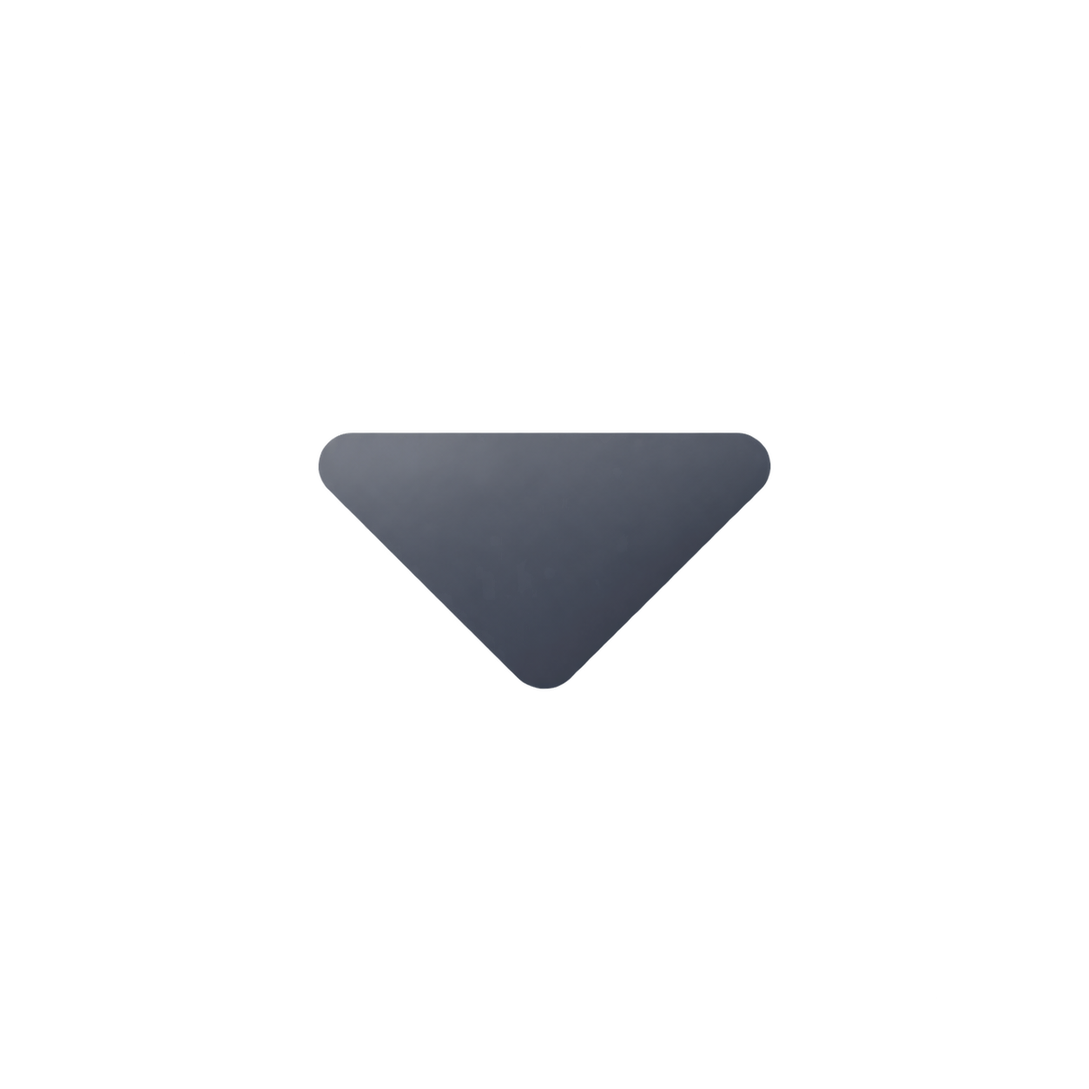
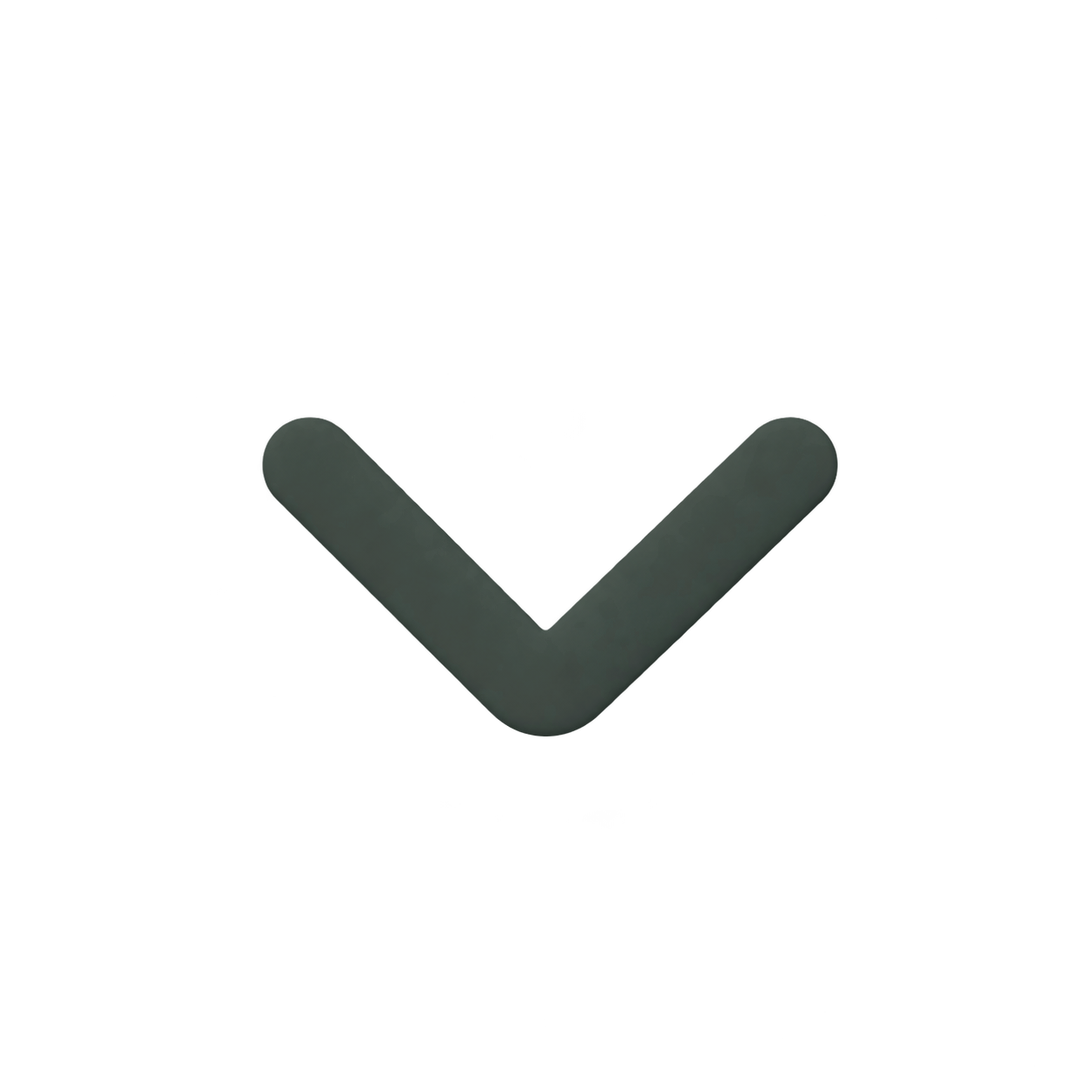
アイコンの変更

Changed region(s): [[0.2177, 0.3732, 0.7775, 0.6842]]

diff --git a/app/page.tsx b/app/page.tsx
@@ -15,7 +15,7 @@ import { ReviewCelebration } from "./study-effects";
 import { MaterialManager } from "./material-manager";
 import { SettingsDialog } from "./settings-dialog";
 import { StudyCardEditor } from "./study-card-editor";
-import { AssetIcon, IconLabel } from "./asset-icon";
+import { AssetIcon, IconLabel, type AssetName } from "./asset-icon";
 import type {
   AppData,
   Card,
@@ -208,18 +208,18 @@ function Home({ data, now, startStudy, setScreen, selectSet, resumeDraft, resuma
       </section> : null}
       <DailyReviewRail data={data} now={now} onStudy={startStudy} />
       {resumableSessions.length > 0 && <section className="home-resume-list" aria-label={t("今日の学習")}>
-        {resumableSessions.map((session) => <button key={session.id} className="resume-study" onClick={() => onResume(session)}><span><strong>{t("続きから学習 · 残り{0}枚", pendingStudyCount(session))}</strong><small>{data.sets.find((set) => set.id === session.setId)?.title || t("復習")}</small></span><b aria-hidden="true">➡</b></button>)}
+        {resumableSessions.map((session) => <button key={session.id} className="resume-study" onClick={() => onResume(session)}><span><strong>{t("続きから学習 · 残り{0}枚", pendingStudyCount(session))}</strong><small>{data.sets.find((set) => set.id === session.setId)?.title || t("復習")}</small></span><AssetIcon name="chevron-right" size={18} /></button>)}
       </section>}
 
       <section className="long-term-review">
         <div className="section-row"><h2>{t("久しぶりに思い出す")}</h2></div>
         {memorySets.length ? <div className="recommend-card-grid">{memorySets.map(({ set, cards }, index) => <button key={set.id} className={`recommend-card ${["blue-set", "green-set", "violet-set"][index % 3]}`} onClick={() => startStudy(`__memory__:${set.id}`)}>
-          <strong>{set.title}</strong><span className="recommend-number">{t("{0}枚", cards.length)}</span><small>{t("間隔をあけて、長期記憶を確認しましょう。")}</small><span className="recommend-link">{t("復習を始める")} <b aria-hidden="true">➡</b></span>
+          <strong>{set.title}</strong><span className="recommend-number">{t("{0}枚", cards.length)}</span><small>{t("間隔をあけて、長期記憶を確認しましょう。")}</small><span className="recommend-link">{t("復習を始める")} <AssetIcon name="chevron-right" size={18} /></span>
         </button>)}</div> : <div className="memory-empty"><img src="/review-empty.png" width={1454} height={1080} alt="" /><div><strong>{t("今は復習待ちのカードはありません")}</strong><p>{t("次の復習まで少し休憩しましょう。")}</p></div></div>}
       </section>
 
-      {resumeDraft && <button className="resume-draft" onClick={resumeDraft}>{t("下書きの続きから")}<span>➡</span></button>}
-      {data.sets.length > 0 && <button className="floating-add" onClick={() => setScreen("import")}><IconLabel name="plus" size={22}>{t("新しい教材を追加")}</IconLabel></button>}
+      {resumeDraft && <button className="resume-draft" onClick={resumeDraft}>{t("下書きの続きから")}<AssetIcon name="chevron-right" size={18} /></button>}
+      {data.sets.length > 0 && <button className="floating-add" onClick={() => setScreen("import")}><IconLabel name="plus-dark" size={22}>{t("新しい教材を追加")}</IconLabel></button>}
     </div>
   );
 }
@@ -424,7 +424,7 @@ function SetDetail({ data, selectedSetId, selectSet, startStudy, now, onData, fo
       <section>
         <div className="section-row"><h2>{t("カード一覧")}</h2><span className="muted">{activeCards.length}{t("枚")}</span></div>
         <div className="topic-list">
-          {activeCards.map((card, index) => <button id={`set-card-${card.id}`} key={card.id} onClick={() => startStudy(set.id, card.id)}><span>{index + 1}</span><div><strong>{card.question}</strong><small>{card.answer}</small></div><i>{t(card.status)}</i><em>{relativeDate(card.dueAt, now, language)}　➡</em></button>)}
+          {activeCards.map((card, index) => <button id={`set-card-${card.id}`} key={card.id} onClick={() => startStudy(set.id, card.id)}><span>{index + 1}</span><div><strong>{card.question}</strong><small>{card.answer}</small></div><i>{t(card.status)}</i><em>{relativeDate(card.dueAt, now, language)} <AssetIcon name="chevron-right" size={16} /></em></button>)}
         </div>
       </section>
 
@@ -776,7 +776,7 @@ function Study({ session, updateSession, data, queue, flipped, setFlipped, setQu
     <div className="page study-page">
       {dailyCelebration && <ReviewCelebration onDismiss={() => setDailyCelebration(false)} />}
       <div className="study-header"><button className="secondary pause-study" disabled={busy || aiBusy} onClick={onPause}>{t("中断する")}</button><h1>{set.title}</h1><span /></div>
-      <div className="study-progress" role="progressbar" aria-valuemin={0} aria-valuemax={progressTotal} aria-valuenow={completed}><span style={{ width: `${progress}%` }} /><b>{t("残り")}{queue.length}{t("枚")}</b></div>
+      <div className="study-progress"><div className="study-progress-track" role="progressbar" aria-label={t("今日の学習")} aria-valuemin={0} aria-valuemax={progressTotal} aria-valuenow={completed} aria-valuetext={`${t("残り")}${queue.length}${t("枚")}`}><span className="study-progress-fill" style={{ width: `${progress}%` }} /></div><b className="study-progress-remaining">{t("残り")}{queue.length}{t("枚")}</b></div>
       <div className="study-tools">{undoButton}<button type="button" className="edit-study-button" disabled={busy || aiBusy} onClick={() => updateSession((current) => ({ ...current, editDraft: { cardId: card.id, question: card.question, answer: card.answer, choices: [...card.choices] } }))}>{t("このカードを修正")}</button></div>
       <article
         key={`flashcard:${card.id}`}
@@ -828,12 +828,12 @@ function Study({ session, updateSession, data, queue, flipped, setFlipped, setQu
         <button className="primary wide record-choice" disabled={busy || aiBusy} onClick={() => submitVerdict(selectedChoice === card.answer ? "correct" : "incorrect")}>{selectedChoice === card.answer ? <IconLabel name="check">{t("選択結果を記録して次へ")}</IconLabel> : <IconLabel name="refresh">{t("選択結果を記録して後でもう一度")}</IconLabel>}</button>
       ) : (
         <div className="swipe-actions compact" aria-label={t("スワイプ操作の代替ボタン")}>
-          <button className="incorrect" disabled={!flipped || busy || aiBusy} onClick={() => submitVerdict("incorrect")}><b>⬅</b><span><strong>{t("まだ覚えていない")}</strong></span></button>
-          <button className="correct" disabled={!flipped || busy || aiBusy} onClick={() => submitVerdict("correct")}><span><strong>{t("覚えていた")}</strong></span><b>➡</b></button>
+          <button className="incorrect" disabled={!flipped || busy || aiBusy} onClick={() => submitVerdict("incorrect")}><AssetIcon name="chevron-left" size={20} /><span><strong>{t("まだ覚えていない")}</strong></span></button>
+          <button className="correct" disabled={!flipped || busy || aiBusy} onClick={() => submitVerdict("correct")}><span><strong>{t("覚えていた")}</strong></span><AssetIcon name="chevron-right" size={20} /></button>
         </div>
       )}
 
-      {flipped && <details key={`source:${card.id}`} className="source-details"><summary>{t("元の文章を確認")}</summary><p>{set.sourceContent}</p></details>}
+      {flipped && <details key={`source:${card.id}`} className="source-details"><summary><IconLabel name="document">{t("元の文章を確認")}</IconLabel></summary><p>{set.sourceContent}</p></details>}
       {error && <p className="inline-error" role="alert">{t(error)}</p>}
     </div>
   );
@@ -875,17 +875,17 @@ function Records({ data, now, startStudy }: { data: AppData; now: Date; startStu
         <div className="bar-chart">{dayData.map((day) => <div key={dayKey(day.date)}><span style={{ height: `${day.count === 0 ? 2 : Math.max(4, day.count / maxDailyReviews * 90)}px` }}><i>{day.count}{language === "ja" && t("枚")}</i></span><b>{new Intl.DateTimeFormat(locale, { timeZone: "Asia/Tokyo", weekday: "short" }).format(day.date)}</b></div>)}</div>
       </section>
       <div className="record-stats">
-        {[["streak", "連続学習", t("{0}日", streak)], ["cards", "直近7日間の学習", t("{0}枚", weekReviews)], ["recall", "長期記憶したカード数", t("{0}枚", milestones.longTerm)], ["cards", "もう少しで長期記憶に到達するカード数", t("{0}枚", milestones.nearLongTerm)], ["accuracy", "学習し切ったセット数", t("{0}セット", milestones.completedSets)]].map(([icon, label, value], index) => (
+        {[["streak", "連続学習", t("{0}日", streak)], ["weekly-study", "直近7日間の学習", t("{0}枚", weekReviews)], ["long-term", "長期記憶したカード数", t("{0}枚", milestones.longTerm)], ["memory-clock", "もう少しで長期記憶に到達するカード数", t("{0}枚", milestones.nearLongTerm)], ["completed-sets", "学習し切ったセット数", t("{0}セット", milestones.completedSets)]].map(([icon, label, value], index) => (
           <article key={label} className={index < 2 ? "record-stat-summary" : "record-stat-memory"}>
-            <span className="record-stat-icon" aria-hidden="true"><img src={`/record-icons/${icon}.png`} width={1254} height={1254} alt="" loading="lazy" /></span>
+            <span className="record-stat-icon" aria-hidden="true"><AssetIcon name={icon as AssetName} size={index < 2 ? 28 : 34} /></span>
             <small>{t(label)}</small>
             <strong>{value}</strong>
           </article>
         ))}
       </div>
-      <section><div className="section-row"><h2>{t("復習リマインド")}</h2></div><div className="reminder-list">{data.sets.slice(0, 5).map((set) => { const due = set.cards.filter((card) => isDue(card, now)).length; return <button key={set.id} onClick={() => startStudy(set.id)}><AssetIcon name="clock" size={26} /><div><strong>{due ? t("{0}枚のカードが復習待ち", due) : t("{0}の次回復習", set.title)}</strong><small>{set.title}</small></div><em>{relativeDate(set.nextReviewAt, now, language)}　➡</em></button>; })}</div></section>
+      <section><div className="section-row"><h2>{t("復習リマインド")}</h2></div><div className="reminder-list">{data.sets.slice(0, 5).map((set) => { const due = set.cards.filter((card) => isDue(card, now)).length; return <button key={set.id} onClick={() => startStudy(set.id)}><AssetIcon name="clock" size={26} /><div><strong>{due ? t("{0}枚のカードが復習待ち", due) : t("{0}の次回復習", set.title)}</strong><small>{set.title}</small></div><em>{relativeDate(set.nextReviewAt, now, language)} <AssetIcon name="chevron-right" size={16} /></em></button>; })}</div></section>
       <details className="ai-history-disclosure"><summary>{t("AI解説の学習履歴")}</summary><div className="ai-history-list">{aiHistory.length ? aiHistory.map(({ message, question, card: historyCard, setTitle }) => <details key={message.id}><summary><span><span><AssetIcon name="sparkles" /></span><small>{setTitle}{t("・")}{relativeDate(message.createdAt, now, language)}</small></span><strong>{historyCard?.question || question}</strong></summary><p className="history-question">{t("あなた：")}{question}</p><p>{message.content}</p></details>) : <p className="list-empty">{t("学習中にAIへ質問すると、解説がここへ保存されます。")}</p>}</div></details>
-      <section><div className="section-row"><h2>{t("苦手カード")}</h2><span className="muted">{weak.length}{t("枚")}</span></div><div className="weak-list">{weak.length ? weak.slice(0, 8).map(({ card, set }) => <button key={card.id} onClick={() => startStudy(set.id, card.id)}><i>{set.category}</i><strong>{card.question}</strong><span>{t("復習")}{card.reviewCount}{t("回　➡")}</span></button>) : <p className="list-empty">{t("苦手カードはまだありません。")}</p>}</div></section>
+      <section><div className="section-row"><h2>{t("苦手カード")}</h2><span className="muted">{weak.length}{t("枚")}</span></div><div className="weak-list">{weak.length ? weak.slice(0, 8).map(({ card, set }) => <button key={card.id} onClick={() => startStudy(set.id, card.id)}><i>{set.category}</i><strong>{card.question}</strong><span>{t("復習")}{card.reviewCount}{t("回")} <AssetIcon name="chevron-right" size={16} /></span></button>) : <p className="list-empty">{t("苦手カードはまだありません。")}</p>}</div></section>
     </div>
   );
 }

diff --git a/app/globals.css b/app/globals.css
@@ -100,7 +100,11 @@ h2 { font-size: 18px; }
 .memory-grid { display: grid; grid-template-columns: repeat(4,1fr); gap: 10px; }.memory-grid > div { border: 1px solid var(--line); border-radius: 14px; padding: 14px; display: grid; gap: 8px; }.memory-grid strong { font-size: 29px; }.memory-grid strong i { font-size: 12px; font-style: normal; }.blue-dot { color: var(--blue); }.green-dot { color: var(--cyan); }.orange-dot { color: #f19523; }.gray-dot { color: #adbb9c; }.memory-tip { background: #f9fcf5; padding: 16px; border-radius: 13px; color: var(--blue); margin: 18px 0 0; }.memory-tip span { color: var(--muted); margin-left: 24px; }
 .topic-list { border: 1px solid var(--line); border-radius: 18px; overflow: hidden; background: #fff; }.topic-list button { width: 100%; min-height: 82px; display: grid; grid-template-columns: auto 1fr auto auto; align-items: center; gap: 16px; border: 0; border-bottom: 1px solid var(--line); background: #fff; text-align: left; padding: 12px 18px; }.topic-list button:last-child { border-bottom: 0; }.topic-list button > span { width: 42px; height: 42px; display: grid; place-content: center; border-radius: 50%; background: #f7fbf2; color: var(--blue); font-size: 20px; }.topic-list small { display: block; color: var(--muted); margin-top: 4px; }.topic-list i { font-style: normal; border-radius: 999px; padding: 5px 9px; background: #f4f9ee; color: #6e983e; }.topic-list em { font-style: normal; color: var(--muted); }
 .study-header { display: grid; grid-template-columns: 1fr auto 1fr; align-items: center; margin-bottom: 20px; }.study-header h1 { font-size: 20px; margin: 0; }.study-header button { border: 0; background: transparent; font-size: 25px; }.study-header button:last-child { justify-self: end; }
-.study-progress { display: grid; grid-template-columns: 1fr auto; align-items: center; gap: 20px; height: 26px; background: linear-gradient(#eff5e8,#eff5e8) left center/100% 8px no-repeat; }.study-progress span { height: 8px; border-radius: 999px; background: linear-gradient(90deg,var(--blue),var(--cyan)); }.study-progress b { grid-column: 2; grid-row: 1; }
+.study-progress { display: grid; grid-template-columns: minmax(0,1fr) auto; align-items: center; gap: 14px; min-height: 28px; }
+.study-progress-track { height: 10px; overflow: hidden; border-radius: 999px; background: #e8f0e5; box-shadow: inset 0 1px 2px #244f3510; }
+.study-progress-fill { display: block; height: 100%; border-radius: inherit; background: linear-gradient(90deg,#b3e968,#68cba1); transition: width 360ms cubic-bezier(.22,1,.36,1); }
+.study-progress-remaining { white-space: nowrap; font-size: 14px; line-height: 1.5; font-weight: 700; color: var(--leaf); font-variant-numeric: tabular-nums; }
+@media (prefers-reduced-motion: reduce) { .study-progress-fill { transition: none; } }
 .flashcard { position: relative; width: 100%; min-height: 390px; margin: 30px 0 20px; border: 1px solid #e7f1dc; border-radius: 24px; background: linear-gradient(145deg,#fff,#f8fbf4); box-shadow: 0 18px 35px rgba(67, 92, 42,.13); display: flex; flex-direction: column; align-items: stretch; padding: 0; transition: transform .18s ease,background .25s,border-color .18s,box-shadow .18s; touch-action: pan-y; user-select: none; will-change: transform; overflow: hidden; }.flashcard.flipped { background: linear-gradient(145deg,#fdfefb,#f4f9ee); }.flashcard.swiping-right,.flashcard.swiping-left { transition: background .25s,border-color .18s,box-shadow .18s; }.flashcard.swiping-right { border-color: #aad579; box-shadow: 0 18px 36px rgba(67, 92, 42,.2); }.flashcard.swiping-left { border-color: #ff9d9d; box-shadow: 0 18px 36px rgba(239,87,87,.18); }.flashcard-tap { flex: 1; width: 100%; min-height: 350px; border: 0; background: transparent; color: inherit; padding: 28px; display: flex; flex-direction: column; align-items: flex-start; justify-content: space-between; }.flashcard-tap strong { font-size: clamp(24px,4vw,34px); align-self: center; text-align: center; line-height: 1.5; }.flashcard-tap small { align-self: center; color: var(--muted); font-weight: 700; }.flashcard:has(.study-choice-grid) .flashcard-tap { min-height: 235px; }.study-choice-grid { display: grid; grid-template-columns: 1fr 1fr; gap: 10px; padding: 0 22px 22px; }.study-choice-grid button { min-height: 54px; border: 1px solid #e0efce; border-radius: 14px; background: rgba(255,255,255,.9); padding: 10px 14px; text-align: left; font-weight: 700; }.study-choice-grid button:hover { border-color: var(--blue); color: var(--blue); }.choice-feedback { margin: 0 22px 8px; padding: 9px 12px; border-radius: 10px; text-align: center; font-size: 12px; font-weight: 800; }.choice-feedback.is-correct { color: #53722f; background: #f1f8ea; }.choice-feedback.is-incorrect { color: #b34b4b; background: #fff1f1; }.card-ai-button { min-height: 50px; margin: 0 22px 22px; border: 1px solid #ddeec9; border-radius: 14px; background: rgba(255,255,255,.92); color: var(--blue); font-weight: 800; }
 .gesture-message { min-height: 22px; margin: 0 0 12px; text-align: center; color: var(--muted); font-size: 13px; }
 .swipe-actions { display: grid; grid-template-columns: 1fr 1fr; gap: 12px; }.swipe-actions button { min-height: 76px; border: 1px solid var(--line); border-radius: 18px; background: #fff; display: flex; align-items: center; justify-content: center; gap: 18px; box-shadow: 0 7px 20px rgba(67, 92, 42,.06); }.swipe-actions button > b { font-size: 27px; }.swipe-actions button > span { display: grid; text-align: left; }.swipe-actions button strong { font-size: 17px; }.swipe-actions button small { color: var(--muted); margin-top: 2px; }.swipe-actions .incorrect { color: #c53e3e; }.swipe-actions .incorrect small { color: #805757; }.swipe-actions .correct { color: #496529; }.swipe-actions .correct small { color: #5a6f42; }.record-choice { margin-top: 0; }
@@ -282,8 +286,7 @@ body { background: radial-gradient(ellipse at 12% 0, #efffdc 0, transparent 48%)
 .success-banner { background: linear-gradient(110deg,#e6faf1,#f7fde9); border-color: #ccebdd; }
 .success-banner > span,.edit-card-list .number { background: var(--mint); color: var(--ink); }
 .chat-input button { background: var(--lime); color: var(--ink); }
-.study-progress span,.bar-chart span { background: linear-gradient(180deg,#b4ee64,#69d3ab); }
-.study-progress { background-image: linear-gradient(#eaf2ed,#eaf2ed); }
+.bar-chart span { background: linear-gradient(180deg,#b4ee64,#69d3ab); }
 .bottom-nav .active { color: #25633e; background: #f2fbdc; }
 .bottom-nav .active .nav-icon { color: #337743; }
 .bottom-nav .nav-image { display: block; width: 38px; height: 38px; flex-shrink: 0; overflow: hidden; mix-blend-mode: multiply; }
@@ -633,7 +636,7 @@ button:not(.flashcard-tap):not(:disabled):active { scale: .96; translate: 0 2px;
 
 /* Icons are existing image assets or platform emoji, never drawn in SVG/CSS. */
 .asset-icon { display: inline-flex; align-items: center; justify-content: center; width: var(--asset-icon-size); height: var(--asset-icon-size); min-width: var(--asset-icon-size); flex: 0 0 var(--asset-icon-size); padding: 0; overflow: hidden; vertical-align: middle; line-height: 1; mix-blend-mode: multiply; }
-.asset-icon > img { display: block; width: 100%; height: 100%; object-fit: contain; transform: scale(var(--asset-icon-scale)); }
+.asset-icon > img { display: block; width: 100%; height: 100%; object-fit: contain; transform: scale(var(--asset-icon-scale)) translate(var(--asset-icon-x,0%),var(--asset-icon-y,0%)); }
 .asset-icon-ui { mix-blend-mode: normal; }
 .icon-label { display: inline-flex; align-items: center; justify-content: center; gap: 6px; max-width: 100%; vertical-align: middle; }
 .icon-label > span:last-child { min-width: 0; }
@@ -728,7 +731,8 @@ html[lang="en"] .bottom-nav button { font-size: 11px; }
 .record-stats .record-stat-memory { grid-column: 1 / -1; }
 .record-stats .record-stat-memory:nth-child(4) { background: #f7fbed; }
 .record-stats .record-stat-memory:nth-child(5) { background: #f5f3fc; border-color: #e6e0f2; }
-.record-stats .record-stat-icon { width: 34px; height: 34px; overflow: hidden; mix-blend-mode: multiply; }
+.record-stats .record-stat-icon { width: 34px; height: 34px; overflow: hidden; mix-blend-mode: normal; }
+.record-stat-icon .asset-icon > img { transform: scale(var(--asset-icon-scale)) translate(var(--asset-icon-x,0%),var(--asset-icon-y,0%)); }
 .record-stats small { font-size: 13px; line-height: 1.5; font-weight: 600; overflow-wrap: anywhere; }
 .record-stats strong { font-size: 22px; text-align: right; white-space: nowrap; }
 .record-stat-summary .record-stat-icon { grid-row: 1 / 3; width: 28px; height: 28px; }

diff --git a/app/set-library.tsx b/app/set-library.tsx
@@ -1,7 +1,7 @@
 "use client";
 
 import { useLanguage } from "./language";
-import { IconLabel } from "./asset-icon";
+import { AssetIcon, IconLabel } from "./asset-icon";
 
 import { useRef, useState, type ReactNode } from "react";
 import type { AppData, Folder } from "../lib/types";
@@ -73,8 +73,8 @@ export function SetLibrary({ data, folderId, openSetId, onFolder, onSet, onData,
         {results.cards.length > 0 && <><h2>{t("カード")}</h2><div className="search-hit-list">{results.cards.slice(0, searchLimit).map(({ card, set }) => <button key={card.id} type="button" onClick={() => openSearchResult(set.id, card.id)}><small>{set.title}</small><strong>{card.question}</strong><span>{card.answer}</span></button>)}</div></>}
         {!results.sets.length && !results.cards.length && <p className="muted">{t("一致する教材・カードがありません。")}</p>}
         {Math.max(results.sets.length, results.cards.length) > searchLimit && <button className="secondary wide" onClick={() => setSearchLimit((limit) => limit + 50)}>{t("さらに表示")}</button>}
-      </section> : currentSet ? <div className="folder-toolbar"><button className="secondary" onClick={() => navigate(currentFolderId)}>{t("⬅ フォルダへ戻る")}</button><button className="secondary" onClick={() => { setMovingSet(currentSet.id); setDestination(currentSet.folderId || ""); }}>{t("別のフォルダへ移動")}</button></div> : <>
-        <div className="library-heading">{folder && <h1>{folder.name}</h1>}<button className="primary" onClick={onAdd}><IconLabel name="plus">{t("カードセットを追加")}</IconLabel></button></div>
+      </section> : currentSet ? <div className="folder-toolbar"><button className="secondary" onClick={() => navigate(currentFolderId)}><IconLabel name="chevron-left" size={18}>{t("フォルダへ戻る")}</IconLabel></button><button className="secondary" onClick={() => { setMovingSet(currentSet.id); setDestination(currentSet.folderId || ""); }}>{t("別のフォルダへ移動")}</button></div> : <>
+        <div className="library-heading">{folder && <h1>{folder.name}</h1>}<button className="primary" onClick={onAdd}><IconLabel name="plus-dark">{t("カードセットを追加")}</IconLabel></button></div>
         <div className="folder-controls">
           <button ref={folderButtonRef} type="button" className="secondary" disabled={busy} aria-expanded={folderFormOpen && !renaming} aria-controls="folder-create-form" onClick={() => { setFolderFormOpen(!folderFormOpen || renaming); setRenaming(false); setName(""); }}><IconLabel name="plus">{t("フォルダ")}</IconLabel></button>
           {folder && <button type="button" className="folder-text-button" disabled={busy} aria-expanded={folderFormOpen && renaming} aria-controls="folder-create-form" onClick={() => { setFolderFormOpen(true); setRenaming(true); setName(folder.name); }}>{t("このフォルダの名前を変更")}</button>}
@@ -84,8 +84,8 @@ export function SetLibrary({ data, folderId, openSetId, onFolder, onSet, onData,
           <button className="secondary" disabled={busy || !name.trim()}>{renaming ? t("名前を保存") : t("フォルダを作成")}</button>
           <button type="button" className="folder-text-button" disabled={busy} onClick={() => { setFolderFormOpen(false); setRenaming(false); setName(""); folderButtonRef.current?.focus(); }}>{t("キャンセル")}</button>
         </form>}
-        <div className="folder-grid">{folders.map((f) => <button className="folder-tile" key={f.id} onClick={() => navigate(f.id)}><span aria-hidden="true">📁</span><strong>{f.name}</strong><small>{data.folders.filter((c) => c.parentId === f.id).length}{t("フォルダ ·")}{data.sets.filter((set) => set.folderId === f.id).length}{language === "en" ? " sets" : "セット"}</small><span className="folder-arrow" aria-hidden="true">➡</span></button>)}</div>
-        <div className="library-sets">{sets.map((set) => <article key={set.id}><button className="library-set-open" onClick={() => onSet(set.id)}><span aria-hidden="true">{setEmoji(set)}</span><div><strong>{set.title}</strong><small>{set.cards.filter((c) => !["アーカイブ", "削除済み"].includes(c.status)).length}{t("枚 ·")}{set.category}</small></div><span aria-hidden="true">➡</span></button><button className="folder-text-button" onClick={() => { setMovingSet(set.id); setDestination(set.folderId || ""); }}>{t("移動")}</button></article>)}</div>
+        <div className="folder-grid">{folders.map((f) => <button className="folder-tile" key={f.id} onClick={() => navigate(f.id)}><AssetIcon name="folder" size={30} /><strong>{f.name}</strong><small>{data.folders.filter((c) => c.parentId === f.id).length}{t("フォルダ ·")}{data.sets.filter((set) => set.folderId === f.id).length}{language === "en" ? " sets" : "セット"}</small><span className="folder-arrow"><AssetIcon name="chevron-right" size={18} /></span></button>)}</div>
+        <div className="library-sets">{sets.map((set) => <article key={set.id}><button className="library-set-open" onClick={() => onSet(set.id)}><span aria-hidden="true">{setEmoji(set)}</span><div><strong>{set.title}</strong><small>{set.cards.filter((c) => !["アーカイブ", "削除済み"].includes(c.status)).length}{t("枚 ·")}{set.category}</small></div><AssetIcon name="chevron-right" size={18} /></button><button className="folder-text-button" onClick={() => { setMovingSet(set.id); setDestination(set.folderId || ""); }}>{t("移動")}</button></article>)}</div>
         {!sets.length && !folders.length && <p className="library-empty">{t("まだ教材がありません。カードセットを追加するか、フォルダを作って整理しましょう。")}</p>}
       </>}
       {movingSet && !searching && <form className="folder-move panel" onSubmit={async (e) => { e.preventDefault(); if (await run({ action: "moveSet", setId: movingSet, folderId: destination || null })) { setMovingSet(null); setMessage(t("カードセットを移動しました。")); if (currentSet) onFolder(destination || null); } }}><h2>{t("「")}{data.sets.find((set) => set.id === movingSet)?.title}{t("」の移動先")}</h2><label>{t("フォルダ")}<select value={destination} onChange={(e) => setDestination(e.target.value)}>{options}</select></label><div className="manager-actions"><button className="primary" disabled={busy}>{t("ここへ移動")}</button><button type="button" disabled={busy} onClick={() => setMovingSet(null)}>{t("キャンセル")}</button></div></form>}

diff --git a/app/asset-icon.tsx b/app/asset-icon.tsx
@@ -10,22 +10,35 @@ const assets = {
   sparkles: "/ui-icons/sparkles.png",
   info: "/ui-icons/info.png",
   plus: "/ui-icons/plus.png",
+  "plus-dark": "/ui-icons/plus-dark.png",
+  "chevron-left": "/ui-icons/chevron-left.png",
+  "chevron-right": "/ui-icons/chevron-right.png",
   refresh: "/ui-icons/refresh.png",
+  folder: "/ui-icons/folder.png",
+  streak: "/ui-icons/streak.png",
+  "completed-sets": "/ui-icons/completed-sets.png",
+  "long-term": "/ui-icons/long-term.png",
+  document: "/ui-icons/document.png",
+  "memory-clock": "/ui-icons/memory-clock.png",
+  "weekly-study": "/ui-icons/weekly-study.png",
   clock: "/set-meta-icons/next-review.png",
   cards: "/set-meta-icons/cards.png",
 } as const;
 
-type AssetName = keyof typeof assets;
+export type AssetName = keyof typeof assets;
 
 // Account for transparent padding in the supplied PNGs without changing the files.
 const scales: Partial<Record<AssetName, number>> = {
-  settings: 1.52, close: 1.81, "chevron-down": 2.27, "chevron-up": 2.72,
-  check: 1.39, lock: 1.46, sparkles: 1.83, info: 1.53, plus: 1.58, refresh: 1.35,
+  "plus-dark": 2.4, "chevron-left": 4.7, "chevron-right": 4.7,
+  settings: 1.35, close: 1.81, "chevron-down": 1.85, "chevron-up": 1.65,
+  folder: 1.22, streak: 1.1, "completed-sets": 1.15, "long-term": 1.24,
+  document: 1.55, "memory-clock": 1.45, "weekly-study": 1.23,
+  check: 1.39, lock: 1.46, sparkles: 1.83, info: 1.38, plus: 1.55, refresh: 1.35,
 };
 
 // Reuse the supplied artwork without drawing or generating new icons.
 export function AssetIcon({ name, size = 22 }: { name: AssetName; size?: number }) {
-  return <span className={`asset-icon${name in scales ? " asset-icon-ui" : ""}`} style={{ "--asset-icon-size": `${size}px`, "--asset-icon-scale": scales[name] ?? 1.5 } as CSSProperties} aria-hidden="true"><img src={assets[name]} width={1254} height={1254} alt="" draggable={false} /></span>;
+  return <span className={`asset-icon${name in scales ? " asset-icon-ui" : ""}`} style={{ "--asset-icon-size": `${size}px`, "--asset-icon-scale": scales[name] ?? 1.5, "--asset-icon-x": name === "chevron-left" ? "2.54%" : name === "chevron-right" ? "-2.44%" : "0%", "--asset-icon-y": name === "chevron-left" || name === "chevron-right" ? "-6.45%" : "0%" } as CSSProperties} aria-hidden="true"><img src={assets[name]} width={1254} height={1254} alt="" draggable={false} /></span>;
 }
 
 export function IconLabel({ name, children, size = 20 }: { name: AssetName; children: ReactNode; size?: number }) {

diff --git a/app/document-attachments.tsx b/app/document-attachments.tsx
@@ -26,7 +26,7 @@ export function DocumentAttachments({ files, onChange, onBusy, disabled }: { fil
       } catch (error) { setError(t(error instanceof Error && /[\u3000-\u9fff]/.test(error.message) ? error.message : "資料を読み取れませんでした。ファイル形式と内容を確認してください。")); }
       finally { working.current = false; setBusy(false); onBusy(false); }
     }} />
-    <button type="button" className="secondary attach-button" disabled={disabled || busy} onClick={() => input.current?.click()}>{busy ? t("資料を読み取り中…") : <IconLabel name="plus">{t("資料を添付")}</IconLabel>}</button>
+    <button type="button" className="secondary attach-button" disabled={disabled || busy} onClick={() => input.current?.click()}>{busy ? t("資料を読み取り中…") : <IconLabel name="document">{t("資料を添付")}</IconLabel>}</button>
     <p className="attachment-hint attachment-formats">{t(".pdf・.docx・.pptx・.txt・.md・.csv ／ 各10MB")}</p>
     {files.length > 0 && <ul className="attachment-list">{files.map((file) => <li key={file.id}><details><summary>{file.name}<small>{t("{0}文字", file.text.length)}</small></summary><p>{file.text}</p></details><button type="button" disabled={disabled || busy} aria-label={t("{0}を削除", file.name)} onClick={() => onChange(files.filter((item) => item.id !== file.id))}><AssetIcon name="close" size={18} /></button></li>)}</ul>}
     {error && <p className="inline-error" role="alert">{error}</p>}

diff --git a/app/daily-review.tsx b/app/daily-review.tsx
@@ -17,7 +17,7 @@ export function DailyReviewRail({ data, now, onStudy }: { data: AppData; now: Da
   const remaining = plan.cardIds.filter((id) => !done.has(id)).length;
   const achievedDays = days.map((date) => plan.achievedDays.includes(studyDay(date)));
   return <section className="daily-review-rail" aria-label={t("連続学習記録")}>
-    <div className="streak-heading"><h2>🔥 {t("連続学習")}</h2><strong>{t("{0}日", plan.streak)}</strong></div>
+    <div className="streak-heading"><h2><IconLabel name="streak" size={24}>{t("連続学習")}</IconLabel></h2><strong>{t("{0}日", plan.streak)}</strong></div>
     <div className="streak-track">{days.map((date, i) => {
       const today = i === 6;
       const achieved = achievedDays[i];

diff --git a/lib/translations.ts b/lib/translations.ts
@@ -1,4 +1,5 @@
 export const english: Record<string, string> = {
+"フォルダへ戻る": "Back to folder",
 "カードセットを編集": "Edit card set",
 "カード数": "Cards",
 "最終学習日": "Last studied",
